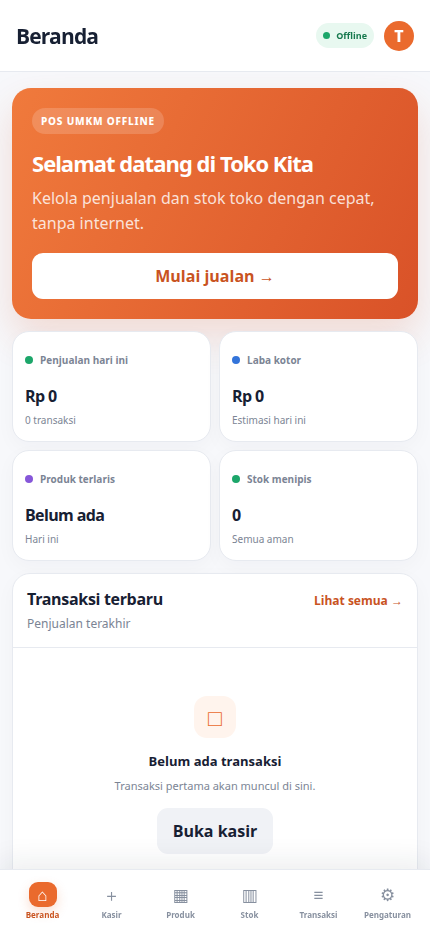
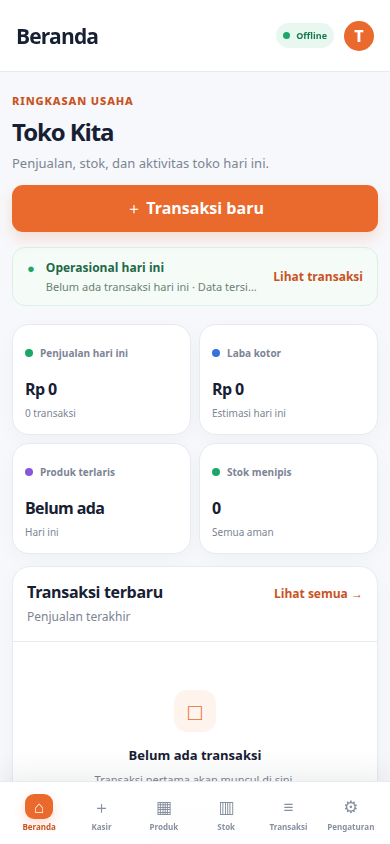
docs: update README screenshots for professional dashboard (v1.9.0)

diff --git a/README.md b/README.md
@@ -8,15 +8,15 @@ POS UMKM Rifaldo adalah aplikasi **Point of Sale offline-first** untuk warung, t
 
 ## Tampilan aplikasi
 
-### Dashboard desktop
+### Tampilan Beranda (Desktop & Mobile)
 
-Beranda menampilkan ringkasan usaha yang praktis: identitas toko, status operasional offline, penjualan hari ini, laba kotor, produk terlaris, stok menipis, transaksi terbaru, dan akses cepat ke transaksi, produk, serta stok. Navigasi utama tetap berada di bagian bawah.
+Beranda dirancang sebagai dashboard operasional bisnis yang profesional dan bersih (v1.9.0), menampilkan identitas toko, status operasional offline, ringkasan penjualan harian, laba kotor, produk terlaris, stok menipis, transaksi terbaru, serta akses cepat ke fungsi utama. Navigasi bawah selalu siap diakses di semua ukuran layar.
 
 ![Dashboard POS UMKM Rifaldo](docs/screenshots/dashboard.png)
 
-### Tampilan mobile
+### Tampilan Mobile
 
-Layout mobile dirancang untuk penggunaan kasir sehari-hari. Bottom navigation menyediakan akses cepat ke **Beranda, Kasir, Produk, Stok, Transaksi, dan Pengaturan**.
+Layout mobile dirancang untuk kenyamanan kasir harian dengan bilah navigasi bawah (*bottom navigation*) yang mencakup **Beranda, Kasir, Produk, Stok, Transaksi, dan Pengaturan**.
 
 ![Dashboard mobile POS UMKM Rifaldo](docs/screenshots/dashboard-mobile.png)
 
